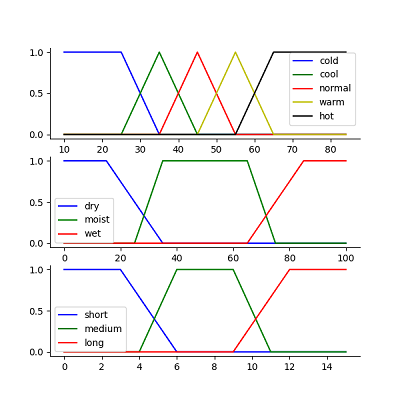
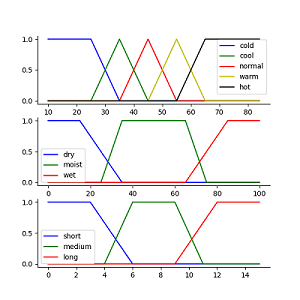
update

diff --git a/Hw2/README.md b/Hw2/README.md
@@ -1,2 +1,14 @@
 # Fuzzy Control of Watering System
+Define your own membership functions and rules and design the program of gardener watering. Observe its performance surface and make appropriate adjustments on membership functions and rules.
+1. Outputs make sense
+2. Rules identify desired behavior 
+3. Labels have correct shape and overlap by exhaustively various input combinations : 
+    * At extreme ends of universe of discourse
+    * At extreme ends of the individual M.F.’ domain
+    * Corresponding to the overlap of M.F.
+    * With some degree of truth in as many antecedents as possible
 
+---
+
+![image](./Figures/v3-1.png)![image](./Figures/v3-2.png)
+![image](./Figures/Final-1.png)![image](./Figures/Final-2.png)
